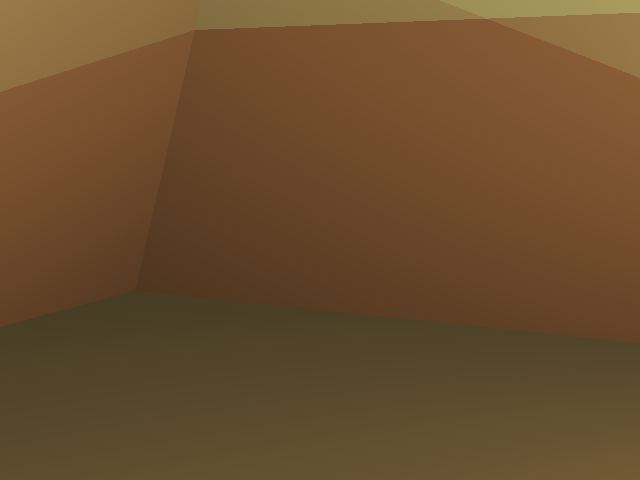
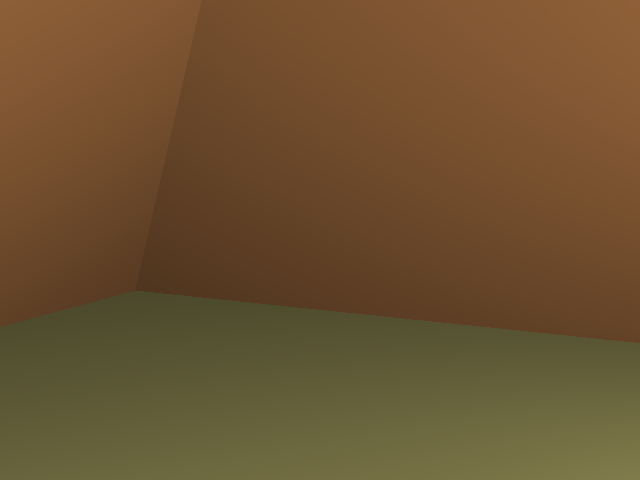
second version working

Changed region(s): [[0.125, 0.8125, 1.0, 1.0], [0.2812, 0.0, 1.0, 0.1562], [0.0, 0.0, 0.0938, 0.125]]

diff --git a/versao2/render.py b/versao2/render.py
@@ -8,16 +8,18 @@ def reflect(l, n):
     result = 2 * n * (np.dot(l, n)) - l 
     return result
 
-def filter_one(objs, point_O, vector_d):
-    interceptions = []
+def nearest(objs, point_O, vector_d):
+    closest = None
+    t_min = np.inf # numero mt grande para identificar que n ha interseccoes
 
     for obj in objs:
         t = obj.intersection(point_O, vector_d)
 
-        if t:
-            # if there is a interception, is going to return the locate = t and which obj it is
-            interceptions.append((t, obj))
-    return interceptions
+        if t and t < t_min:
+            closest = obj
+            t_min = t
+    
+    return t_min, closest
 
 def shade(obj, objs, P, vector_d, normal_obj_p, lights, ca):
     
@@ -28,14 +30,9 @@ def shade(obj, objs, P, vector_d, normal_obj_p, lights, ca):
 
         new_point = P + 10E-5*lj
 
-        S = filter_one(objs, new_point, lj)
-        S.sort()
+        t, shadow = nearest(objs, new_point, lj)
 
-        t = 0
-        if len(S) != 0:
-            t, obj = S[0]
-
-        if len(S) == 0 or (np.dot(lj, (Lj - new_point)) < t):
+        if  not shadow or (np.dot(lj, (Lj - new_point)) < t):
             if np.dot(normal_obj_p,lj) > 0:
                 final_color_point = final_color_point + ((obj.Kd*obj.color) * np.dot(normal_obj_p,lj) * cj)
 
@@ -46,16 +43,12 @@ def shade(obj, objs, P, vector_d, normal_obj_p, lights, ca):
 
 def filter_two(objs, point_O, vector_d, bg_color, ca, lights): # cast
     color_to_return = bg_color
-    interceptions = filter_one(objs, point_O, vector_d)
+    t, closest = nearest(objs, point_O, vector_d)
 
-    # sorting to see which is the closest object
-    interceptions.sort()
-
-    if len(interceptions) != 0:
-        # if there is objects at the screen we are going to get this object and see his color
-        t, obj = interceptions[0]
+    if closest:
         point = point_O + (t*vector_d)
-        color_to_return = shade(obj, objs, point, -1 * vector_d, obj.normal(point), lights, ca)
+        color_to_return = shade(closest, objs, point, -vector_d, closest.normal(point), lights, ca)
+
 
     # we are going to return this color, because if there is no obj is going to be the bg_color, otherwise the obj_color
     return color_to_return

diff --git a/versao2/main.py b/versao2/main.py
@@ -14,4 +14,4 @@ if __name__ == "__main__":
     # call the render here
     # image = render(v_res, h_res, square_side, dist, eye, look_at, up, bg_color, objs)
     # plt.imsave("images/cone.png", image)
-    get_path_and_infos("piramide")
+    get_path_and_infos("queijo")
